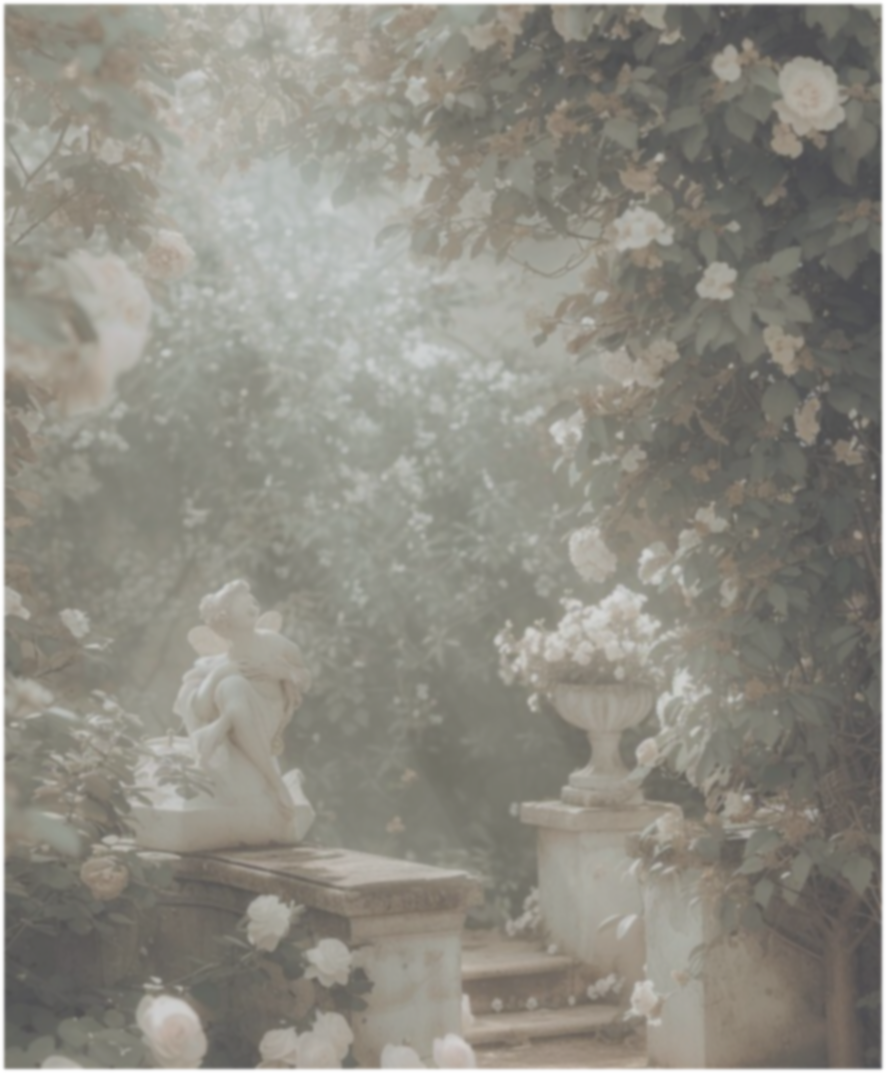
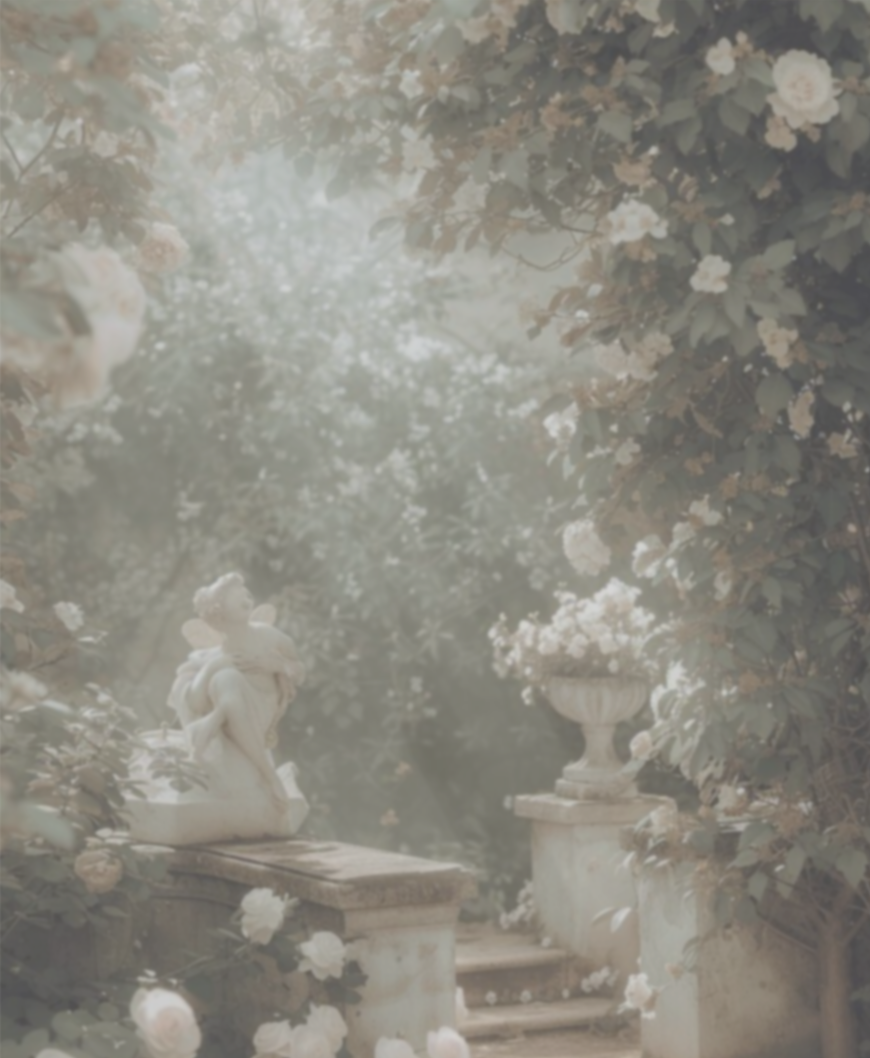
Added Cost and Teacher Component with adapting

diff --git a/src/components/Cost/Cost.module.scss b/src/components/Cost/Cost.module.scss
@@ -1,0 +1,126 @@
+@use './../../styles/base/variables' as *;
+@use './../../styles/mixins/mixins' as *;
+
+.cost_section {
+  display: flex;
+  justify-content: center;
+  align-items: center;
+  flex-direction: column;
+  min-height: 100vh;
+  background-image: url('./../../assets/images/cost-bg.png');
+  background-position: center;
+  background-repeat: no-repeat;
+  background-size: cover;
+
+  @include respond-to(xs) {
+    margin: 0 -10px;
+    min-height: 70vh;
+  }
+
+  @include respond-to(sm) {
+    margin: 0 -10px;
+    min-height: 80vh;
+  }
+  @include respond-to(md) {
+    margin: 0 -15px;
+  }
+
+  @include respond-to(lg) {
+    margin: 0 -20px;
+    min-height: 100vh;
+  }
+
+  @include respond-to(xl) {
+    margin: 0 -25px;
+  }
+
+  &_circle {
+    background: $program-header-color;
+    opacity: 0.6;
+    box-shadow: inset 0px 4px 4px 0px rgba(0, 0, 0, 0.25);
+    border-radius: 50%;
+    display: flex;
+    justify-content: center;
+    align-items: center;
+    @include property-text($font-playfair, 400, $title-info, 48px, 64px, 0%);
+    text-align: $align;
+
+    @include respond-to(xs) {
+      font-size: 24px;
+      line-height: 36px;
+      width: 300px;
+      height: 300px;
+    }
+
+    @include respond-to(sm) {
+      font-size: 32px;
+      line-height: 40px;
+      width: 360px;
+      height: 360px;
+    }
+
+    @include respond-to(md) {
+      font-size: 40px;
+      line-height: 44px;
+      width: 420px;
+      height: 420px;
+    }
+
+    @include respond-to(lg) {
+      font-size: 48px;
+      line-height: 64px;
+      width: 480px;
+      height: 480px;
+    }
+  }
+  &_text{
+    width: 100%;
+    text-align: center;
+    @include respond-to(xs) {
+      max-width: 230px;
+    }
+    @include respond-to(sm) {
+      max-width: 300px;
+    }
+    @include respond-to(md) {
+      max-width: 350px;
+    }
+
+    @include respond-to(lg) {
+      max-width: 406px;
+    }
+  }
+
+  &_apply_button {
+    text-transform: uppercase;
+    cursor: pointer;
+    text-align: $align;
+
+    a {
+      color: rgb(221, 210, 213);
+      @include property-text($font-felidae, 400, rgb(221, 210, 213), 48px, 53px, 0%);
+      text-decoration: none;
+      text-align: $align;
+
+      @include respond-to(xs) {
+        font-size: 24px;
+        line-height: 32px;
+      }
+
+      @include respond-to(sm) {
+        font-size: 32px;
+        line-height: 36px;
+      }
+
+      @include respond-to(md) {
+        font-size: 40px;
+        line-height: 40px;
+      }
+
+      @include respond-to(lg) {
+        font-size: 48px;
+        line-height: 53px;
+      }
+    }
+  }
+}

diff --git a/src/components/Teachers/Teachers.module.scss b/src/components/Teachers/Teachers.module.scss
@@ -1,0 +1,129 @@
+@use './../../styles/base/variables' as *;
+@use './../../styles/mixins/mixins' as *;
+
+.container {
+  position: relative;
+  display: flex;
+  flex-direction: column;
+  align-items: center;
+  background: $teachers-background;
+  padding: 20px;
+  min-height: 580px;
+  margin: 0 -25px;
+  @include respond-to(xs) {
+    margin: 0 -10px;
+    padding: 10px;
+    min-height: 380px;
+  }
+
+  @include respond-to(sm) {
+    margin: 0 -10px;
+    padding: 15px;
+    min-height: 450px;
+  }
+  @include respond-to(md) {
+    margin: 0 -15px;
+    padding: 20px;
+    min-height: 500px;
+  }
+
+  @include respond-to(lg) {
+    margin: 0 -20px;
+    padding: 30px;
+    min-height: 580px;
+  }
+
+  @include respond-to(xl) {
+    margin: 0 -25px;
+  }
+}
+
+.teachers {
+  &_title {
+    @include property-text($font-playfair-bold, 700, $teachers__title, 36px, 48px, 0%);
+    text-transform: uppercase;
+    text-shadow: 1px 1px 3px rgba(0, 0, 0, 0.3);
+    z-index: 1;
+    margin-bottom: 20px;
+
+    @include respond-to(xs) {
+      font-size: 24px;
+      line-height: 28px;
+    }
+
+    @include respond-to(sm) {
+      font-size: 28px;
+      line-height: 32px;
+    }
+
+    @include respond-to(md) {
+      font-size: 32px;
+      line-height: 36px;
+    }
+
+    @include respond-to(lg) {
+      font-size: 36px;
+      line-height: 48px;
+    }
+  }
+
+  &_bg {
+    position: absolute;
+    right: 0;
+    top: 0;
+    z-index: 0;
+    width: auto;
+    height: 100%;
+    max-width: 50%;
+  }
+}
+
+.nav {
+  display: flex;
+  align-items: center;justify-content: space-between;
+  z-index: 2;
+  margin-top: 20px;
+  width: 100%;
+  max-width: 750px;
+  @include respond-to(xs) {
+    gap: 20px;
+  }
+  @include respond-to(sm) {
+    gap: 40px;
+  }
+  @include respond-to(md) {
+    gap: 60px;
+  }
+  @include respond-to(lg) {
+    gap: 80px;
+  }
+  &_item {
+    background: rgb(195, 177, 158);
+    box-shadow: inset 0px 4px 4px 0px rgba(0, 0, 0, 0.25);
+    width: 100%;
+    
+    @include respond-to(xs) {
+      max-width: 140px;
+      height: 132px;
+    }
+    @include respond-to(sm) {
+      max-width: 160px;
+      height: 142px;
+    }
+    @include respond-to(md) {
+      max-width: 180px;
+      height: 152px;
+    }
+    @include respond-to(lg) {
+      max-width: 200px;
+      height: 162px;
+    }
+  }
+
+  &_img {
+    width: 100%;
+    height: 100%;
+    object-fit: cover;
+  }
+}
+

diff --git a/src/components/Teachers/Teachers.jsx b/src/components/Teachers/Teachers.jsx
@@ -1,7 +1,40 @@
+import TeacherPhoto from './../../assets/images/teachers-bg.png';
 import styles from './Teachers.module.scss';
 
 const Teachers = () => {
-  return <div className={styles.container}>Content</div>;
+  return (
+    <section className={styles.container}>
+      <h1 className={styles.teachers_title}>Преподаватели</h1>
+      <img
+        className={styles.teachers_bg}
+        src={TeacherPhoto}
+        alt={TeacherPhoto}
+      />
+      <ul className={styles.nav}>
+        <li className={styles.nav_item}>
+          <img
+            src="https://via.placeholder.com/200x300"
+            alt="testing photos"
+            className={styles.nav_img}
+          />
+        </li>
+        <li className={styles.nav_item}>
+          <img
+            src="https://via.placeholder.com/200x300"
+            alt="testing photos"
+            className={styles.nav_img}
+          />
+        </li>
+        <li className={styles.nav_item}>
+          {/* <img
+            src="https://via.placeholder.com/200x300"
+            alt="testing photos"
+            className={styles.nav_img}
+          /> */}
+        </li>
+      </ul>
+    </section>
+  );
 };
 
 export default Teachers;

diff --git a/src/components/Cost/Cost.jsx b/src/components/Cost/Cost.jsx
@@ -1,7 +1,16 @@
 import styles from './Cost.module.scss';
 
 const Cost = () => {
-  return <div className={styles.container}>Content</div>;
+  return (
+    <section className={styles.cost_section}>
+      <div className={styles.cost_section_circle}>
+        <span className={styles.cost_section_text}>СТОИМОСТЬ КУРСА</span>
+      </div>
+      <div className={styles.cost_section_apply_button}>
+        <a href="#">ОСТАВИТЬ ЗАЯВКУ</a>
+      </div>
+    </section>
+  );
 };
 
 export default Cost;

diff --git a/src/components/ProgramContent/ProgramContent.module.scss b/src/components/ProgramContent/ProgramContent.module.scss
@@ -235,16 +235,17 @@
     &_learning_item_2 {
       @include property-text($font-playfair, 400, $learning-item-color, 36px, 48px, 0%);
       text-align: $align;
-      order: -1;
 
       @include respond-to(xs) {
         font-size: 24px;
         line-height: 28px;
+        order: -1;
       }
 
       @include respond-to(sm) {
         font-size: 28px;
         line-height: 32px;
+        order: 1;
       }
 
       @include respond-to(md) {
